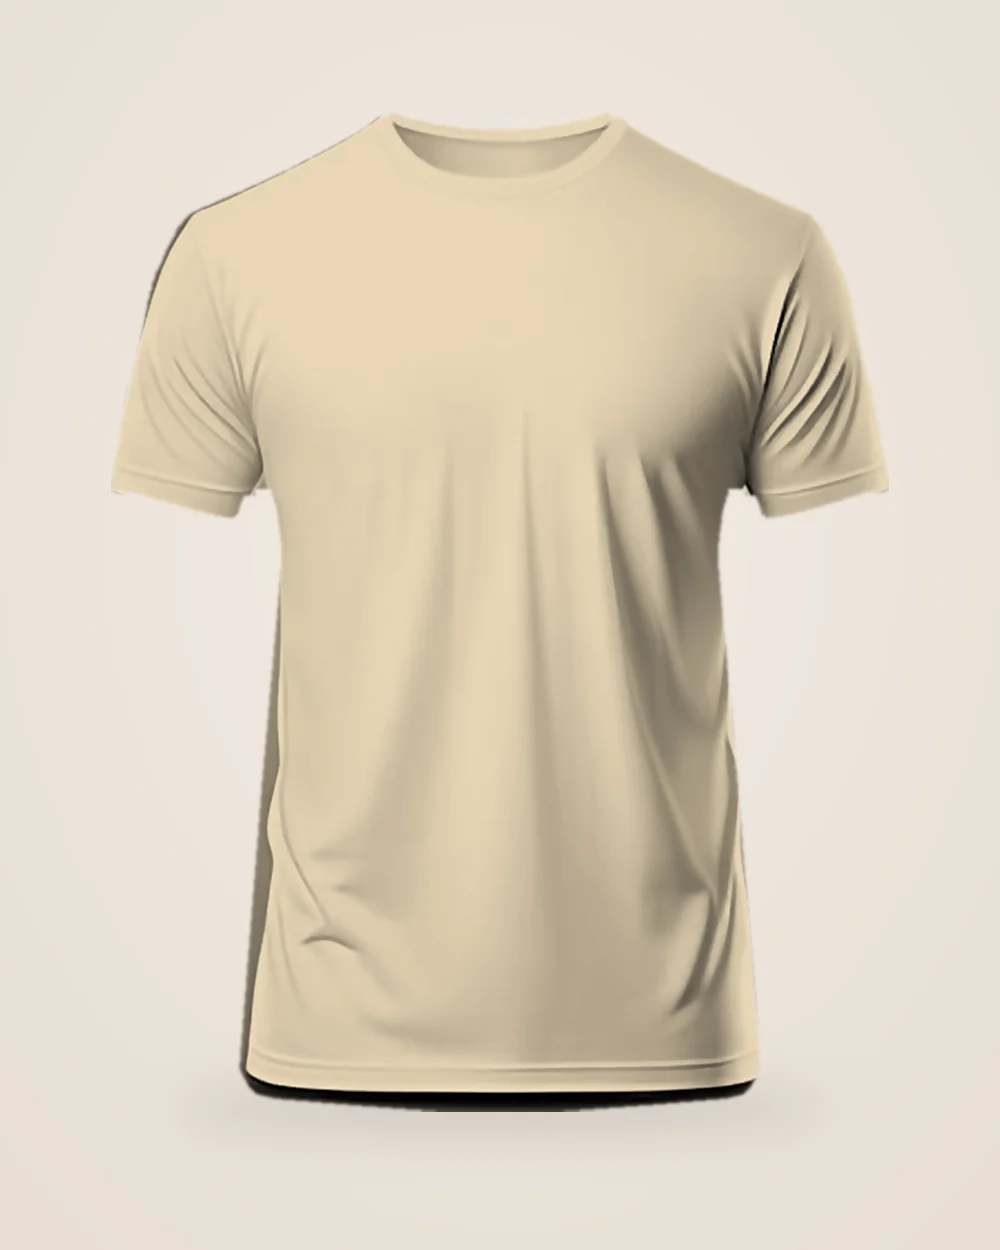
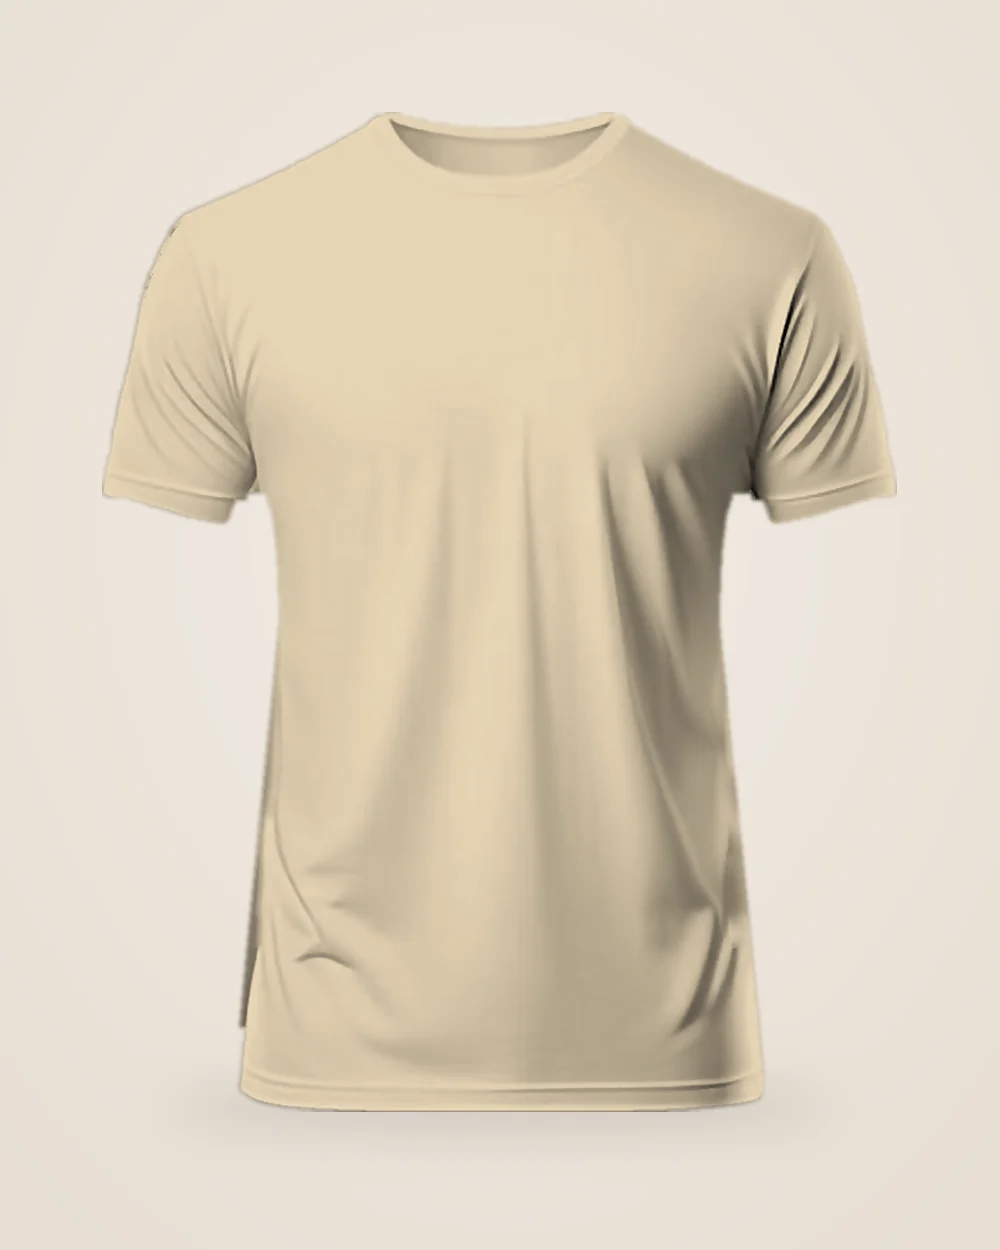
Blend garments into the site: clean cutouts, prints that sit in the fabric
- Tee cutout: removed the floor shadow under the hem, the grey wall strip and side notches; edges repainted with fabric colour and softened
- New per-view shading maps; prints now follow folds, take the garment's light and shadow, and lose vector-sharp edges

diff --git a/src/components/GarmentPreview.tsx b/src/components/GarmentPreview.tsx
@@ -13,9 +13,9 @@ const STACKED = { dark: '/brand/artios-stacked-dark.svg', light: '/brand/artios-
 
 // Garment bounding boxes inside the 500 × 625 photo frame.
 const BOX = {
-  'tee-front': { x: 55.5, y: 56, w: 389, h: 500 },
-  'tee-back': { x: 53, y: 56, w: 394, h: 500 },
-  'hoodie-front': { x: 68.5, y: 56, w: 363, h: 512.5 },
+  'tee-front': { x: 51, y: 56, w: 397.5, h: 500 },
+  'tee-back': { x: 51, y: 56, w: 398, h: 500 },
+  'hoodie-front': { x: 68.5, y: 56, w: 362.5, h: 512.5 },
   'hoodie-back': { x: 70, y: 56, w: 359.5, h: 512.5 },
 };
 
@@ -43,6 +43,7 @@ export default function GarmentPreview({ garment, color, side = 'centre', phrase
   const stacked = color.dark ? STACKED.light : STACKED.dark;
   const blend = color.dark ? undefined : { mixBlendMode: 'multiply' as const };
   const photo = `/garments/${garment}-${view}-${slug(color.name)}.webp`;
+  const shade = `/garments/${garment}-${view}-shade.webp`;
   const frontPhrase = phrase && placement === 'front' ? phrase : undefined;
   const backPhrase = phrase && placement === 'back' ? phrase : undefined;
   const isTee = garment === 'tee';
@@ -118,9 +119,21 @@ export default function GarmentPreview({ garment, color, side = 'centre', phrase
   }
 
   return <svg className={`garment ${className}`} viewBox="0 0 500 625" role="img" aria-label={title ?? `${color.name} ${isTee ? 'T-shirt' : 'hoodie'}, ${view} view`}>
-    <defs><radialGradient id={`glow-${id}`}><stop offset="0" stopColor="#FFB347" stopOpacity=".5" /><stop offset="1" stopColor="#FFB347" stopOpacity="0" /></radialGradient></defs>
+    <defs>
+      <radialGradient id={`glow-${id}`}><stop offset="0" stopColor="#FFB347" stopOpacity=".5" /><stop offset="1" stopColor="#FFB347" stopOpacity="0" /></radialGradient>
+      {/* Makes the print sit in the fabric: follows the folds, picks up the garment's light and shadow, loses vector-sharp edges. */}
+      <filter id={`fab-${id}`} x="0" y="0" width="500" height="625" filterUnits="userSpaceOnUse" colorInterpolationFilters="sRGB">
+        <feImage href={shade} x="0" y="0" width="500" height="625" preserveAspectRatio="none" result="shade" />
+        <feGaussianBlur in="shade" stdDeviation="3" result="sblur" />
+        <feDisplacementMap in="SourceGraphic" in2="sblur" scale="5" xChannelSelector="R" yChannelSelector="R" result="warp" />
+        <feGaussianBlur in="warp" stdDeviation="0.35" result="soft" />
+        <feBlend in="shade" in2="soft" mode="soft-light" result="lit1" />
+        <feBlend in="shade" in2="lit1" mode="soft-light" result="lit" />
+        <feComposite in="lit" in2="soft" operator="in" />
+      </filter>
+    </defs>
     <rect width="500" height="625" fill="#EDE5DA" />
     <image key={photo} className="g-photo" href={photo} x="0" y="0" width="500" height="625" preserveAspectRatio="xMidYMid slice" />
-    <g className="g-print" style={blend} opacity={0.97}>{view === 'front' ? front() : back()}</g>
+    <g className="g-print" style={blend} opacity={color.dark ? 0.92 : 0.95} filter={`url(#fab-${id})`}>{view === 'front' ? front() : back()}</g>
   </svg>;
 }
